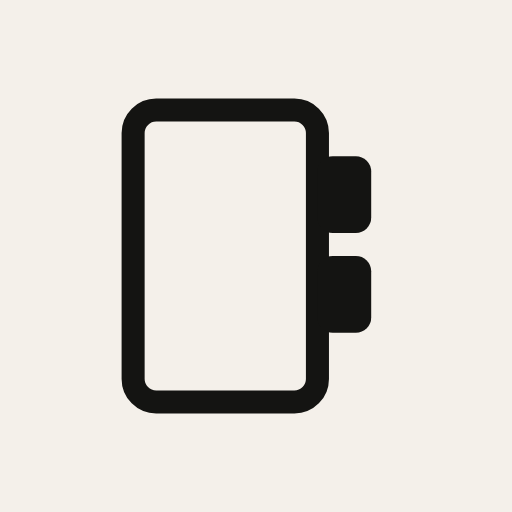
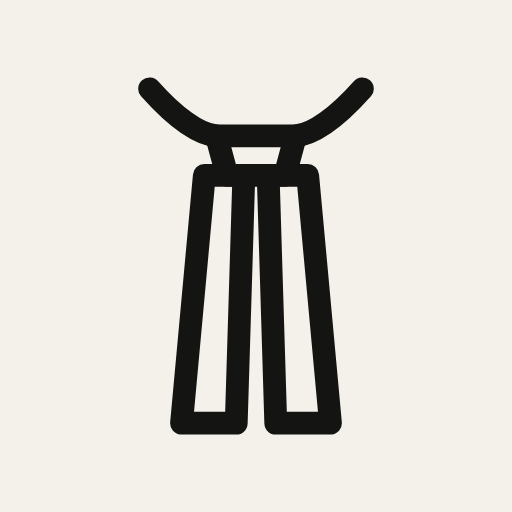
Beeldmerk: bef in plaats van document (#5)
De bef met de kraag van de toga in de kop, het tabblad-icoon en de
app-iconen.

Claude-Session: https://claude.ai/code/session_01Td7DGC4goj5Gz9X5k9D1GF

Changed region(s): [[0.2188, 0.125, 0.75, 0.875]]

diff --git a/src/App.tsx b/src/App.tsx
@@ -93,10 +93,12 @@ export default function App() {
       <header className="kop">
         <div className="kop-binnen">
           <a className="merk" href="#" onClick={(e) => { e.preventDefault(); kies('stukken') }}>
-            <svg viewBox="0 0 24 24" aria-hidden="true" className="merk-teken">
-              <rect x="4" y="2.5" width="12" height="19" rx="1.5" />
-              <rect x="16" y="5.5" width="3.5" height="5" rx="1" />
-              <rect x="16" y="12" width="3.5" height="5" rx="1" />
+            {/* Beeldmerk: een bef met de kraag van de toga. */}
+            <svg viewBox="0 0 32 32" aria-hidden="true" className="merk-teken">
+              <path d="M13.4 8.6h5.2l-.7 2.6h-3.8Z" />
+              <path d="M15.2 11.2h-2.6l-1.5 16.3h3.6Z" />
+              <path d="M16.8 11.2h2.6l1.5 16.3h-3.6Z" />
+              <path d="M9 5.5c1.6 1.8 3.2 3 4.4 3.1M23 5.5c-1.6 1.8-3.2 3-4.4 3.1" />
             </svg>
             <span className="merk-tekst">
               <span className="merk-naam">De Rol</span>

diff --git a/src/styles.css b/src/styles.css
@@ -124,9 +124,7 @@ h1, h2, p { margin: 0; }
 .merk-tekst { display: grid; gap: 0.2rem; }
 .merk-naam { font: 400 1.45rem/1 var(--serif); letter-spacing: 0.005em; white-space: nowrap; }
 .merk-sub { font: 400 0.68rem/1 var(--serif); color: var(--inkt-2); letter-spacing: 0.01em; }
-.merk-teken { width: 1.6rem; height: 1.6rem; }
-.merk-teken rect:first-child { fill: none; stroke: var(--inkt); stroke-width: 1.5; }
-.merk-teken rect:not(:first-child) { fill: var(--inkt); }
+.merk-teken { width: 2rem; height: 2rem; fill: none; stroke: var(--inkt); stroke-width: 1.5; stroke-linejoin: round; stroke-linecap: round; }
 
 .schakelaar { display: inline-flex; gap: 1.75rem; }
 
